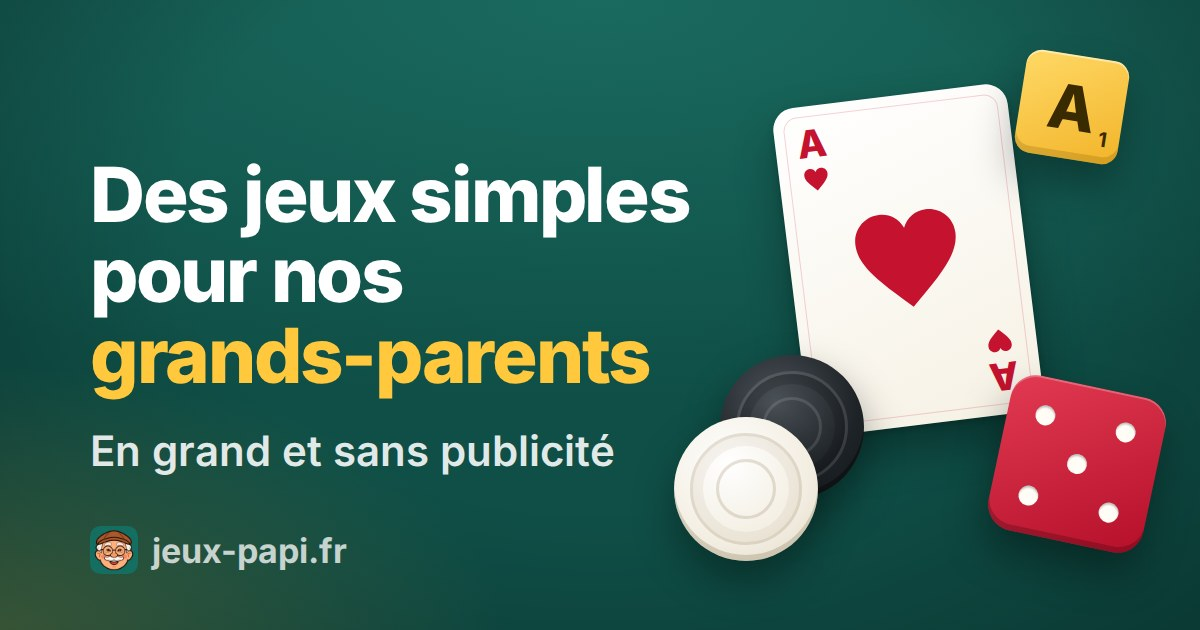
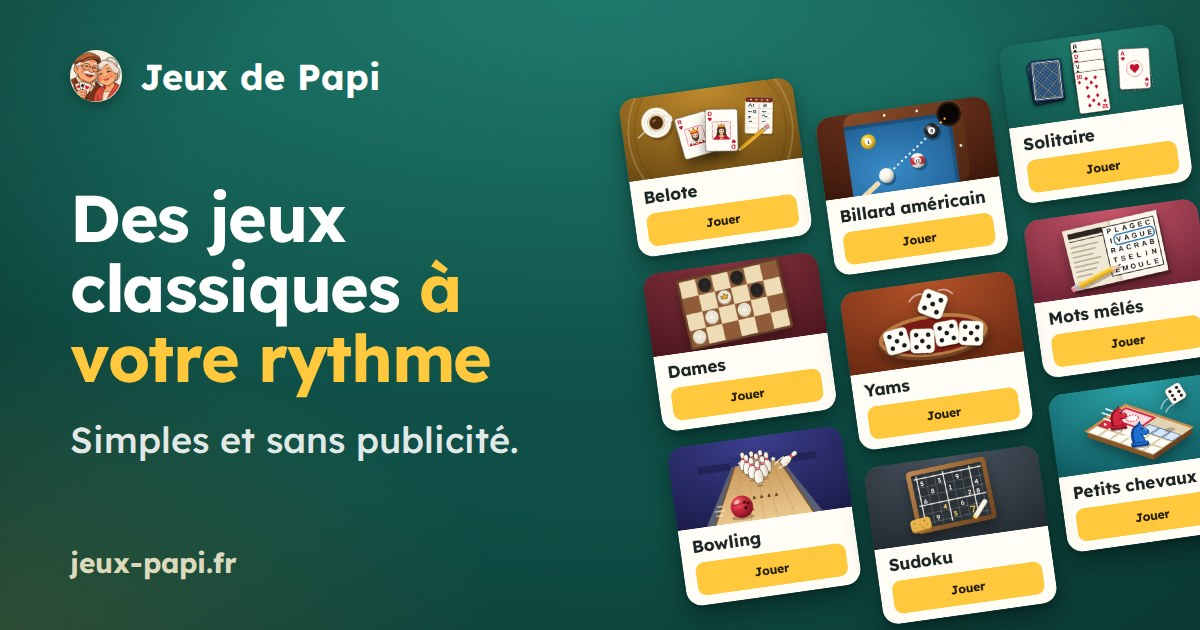
Give the library and every game page their own link preview image (#68)
* Give every game page its own link preview image, drawn by scripts/og-games.mjs

* Draw each game's preview with the picture of its library tile

* Show each game's drawing on the felt of its preview, without the tile behind it

* Redraw the library preview with four library drawings and its own words, and name each game's family on its preview

* Put the address at the bottom right of the library preview, with a smaller logo

* Show a tilted wall of library tiles on the library preview

* Put the address under the text of the library preview, and keep only the library's own line

diff --git a/public/golf/index.html b/public/golf/index.html
@@ -12,7 +12,8 @@
 <meta property="og:url" content="https://jeux-papi.fr/golf/">
 <meta property="og:title" content="Golf miniature · Jeux de Papi">
 <meta property="og:description" content="Jouez neuf trous de golf miniature en trois dimensions, nouveaux à chaque partie. Visez et tapez la balle à votre rythme.">
-<meta property="og:image" content="https://jeux-papi.fr/og.jpg">
+<meta property="og:image" content="https://jeux-papi.fr/og/jeux/golf.jpg">
+<meta property="og:image:alt" content="Golf miniature, sur Jeux de Papi.">
 <meta property="og:image:width" content="1200">
 <meta property="og:image:height" content="630">
 <meta name="twitter:card" content="summary_large_image">

diff --git a/public/huit-americain/index.html b/public/huit-americain/index.html
@@ -12,7 +12,8 @@
 <meta property="og:url" content="https://jeux-papi.fr/huit-americain/">
 <meta property="og:title" content="Huit américain · Jeux de Papi">
 <meta property="og:description" content="Le huit américain en grand, contre trois joueurs de l'ordinateur. Sans publicité ni compte.">
-<meta property="og:image" content="https://jeux-papi.fr/og.jpg">
+<meta property="og:image" content="https://jeux-papi.fr/og/jeux/huit-americain.jpg">
+<meta property="og:image:alt" content="Huit américain, sur Jeux de Papi.">
 <meta property="og:image:width" content="1200">
 <meta property="og:image:height" content="630">
 <meta name="twitter:card" content="summary_large_image">

diff --git a/public/dame-de-pique/index.html b/public/dame-de-pique/index.html
@@ -12,7 +12,8 @@
 <meta property="og:url" content="https://jeux-papi.fr/dame-de-pique/">
 <meta property="og:title" content="Dame de pique · Jeux de Papi">
 <meta property="og:description" content="La dame de pique en grand, contre trois joueurs de l'ordinateur. Sans publicité ni compte.">
-<meta property="og:image" content="https://jeux-papi.fr/og.jpg">
+<meta property="og:image" content="https://jeux-papi.fr/og/jeux/dame-de-pique.jpg">
+<meta property="og:image:alt" content="Dame de pique, sur Jeux de Papi.">
 <meta property="og:image:width" content="1200">
 <meta property="og:image:height" content="630">
 <meta name="twitter:card" content="summary_large_image">

diff --git a/public/mots-meles/index.html b/public/mots-meles/index.html
@@ -12,7 +12,8 @@
 <meta property="og:url" content="https://jeux-papi.fr/mots-meles/">
 <meta property="og:title" content="Mots mêlés · Jeux de Papi">
 <meta property="og:description" content="Les mots mêlés en grand, avec de grandes lettres et trois niveaux. Sans publicité ni compte.">
-<meta property="og:image" content="https://jeux-papi.fr/og.jpg">
+<meta property="og:image" content="https://jeux-papi.fr/og/jeux/mots-meles.jpg">
+<meta property="og:image:alt" content="Mots mêlés, sur Jeux de Papi.">
 <meta property="og:image:width" content="1200">
 <meta property="og:image:height" content="630">
 <meta name="twitter:card" content="summary_large_image">

diff --git a/public/bataille-navale/index.html b/public/bataille-navale/index.html
@@ -12,7 +12,8 @@
 <meta property="og:url" content="https://jeux-papi.fr/bataille-navale/">
 <meta property="og:title" content="Bataille navale · Jeux de Papi">
 <meta property="og:description" content="La bataille navale en grand, contre l'ordinateur. Sans publicité ni compte.">
-<meta property="og:image" content="https://jeux-papi.fr/og.jpg">
+<meta property="og:image" content="https://jeux-papi.fr/og/jeux/bataille-navale.jpg">
+<meta property="og:image:alt" content="Bataille navale, sur Jeux de Papi.">
 <meta property="og:image:width" content="1200">
 <meta property="og:image:height" content="630">
 <meta name="twitter:card" content="summary_large_image">

diff --git a/public/petits-chevaux/index.html b/public/petits-chevaux/index.html
@@ -12,7 +12,8 @@
 <meta property="og:url" content="https://jeux-papi.fr/petits-chevaux/">
 <meta property="og:title" content="Petits chevaux · Jeux de Papi">
 <meta property="og:description" content="Les petits chevaux en grand, contre l'ordinateur. Sans publicité ni compte.">
-<meta property="og:image" content="https://jeux-papi.fr/og.jpg">
+<meta property="og:image" content="https://jeux-papi.fr/og/jeux/petits-chevaux.jpg">
+<meta property="og:image:alt" content="Petits chevaux, sur Jeux de Papi.">
 <meta property="og:image:width" content="1200">
 <meta property="og:image:height" content="630">
 <meta name="twitter:card" content="summary_large_image">

diff --git a/public/solitaire/index.html b/public/solitaire/index.html
@@ -12,7 +12,8 @@
 <meta property="og:url" content="https://jeux-papi.fr/solitaire/">
 <meta property="og:title" content="Solitaire · Jeux de Papi">
 <meta property="og:description" content="Le solitaire classique en grand. Toutes les parties ont une solution. Sans publicité ni compte.">
-<meta property="og:image" content="https://jeux-papi.fr/og.jpg">
+<meta property="og:image" content="https://jeux-papi.fr/og/jeux/solitaire.jpg">
+<meta property="og:image:alt" content="Solitaire, sur Jeux de Papi.">
 <meta property="og:image:width" content="1200">
 <meta property="og:image:height" content="630">
 <meta name="twitter:card" content="summary_large_image">

diff --git a/public/belote/index.html b/public/belote/index.html
@@ -12,7 +12,8 @@
 <meta property="og:url" content="https://jeux-papi.fr/belote/">
 <meta property="og:title" content="Belote · Jeux de Papi">
 <meta property="og:description" content="La belote en grand, avec un partenaire contre deux joueurs de l'ordinateur. Sans publicité ni compte.">
-<meta property="og:image" content="https://jeux-papi.fr/og.jpg">
+<meta property="og:image" content="https://jeux-papi.fr/og/jeux/belote.jpg">
+<meta property="og:image:alt" content="Belote, sur Jeux de Papi.">
 <meta property="og:image:width" content="1200">
 <meta property="og:image:height" content="630">
 <meta name="twitter:card" content="summary_large_image">

diff --git a/public/billard/index.html b/public/billard/index.html
@@ -12,7 +12,8 @@
 <meta property="og:url" content="https://jeux-papi.fr/billard/">
 <meta property="og:title" content="Billard américain · Jeux de Papi">
 <meta property="og:description" content="Le billard du café, contre René : rentrez vos sept billes, puis la noire.">
-<meta property="og:image" content="https://jeux-papi.fr/og.jpg">
+<meta property="og:image" content="https://jeux-papi.fr/og/jeux/billard.jpg">
+<meta property="og:image:alt" content="Billard américain, sur Jeux de Papi.">
 <meta property="og:image:width" content="1200">
 <meta property="og:image:height" content="630">
 <meta name="twitter:card" content="summary_large_image">

diff --git a/public/demineur/index.html b/public/demineur/index.html
@@ -12,7 +12,8 @@
 <meta property="og:url" content="https://jeux-papi.fr/demineur/">
 <meta property="og:title" content="Démineur · Jeux de Papi">
 <meta property="og:description" content="Le démineur en grand. Chaque partie se gagne sans deviner. Sans publicité ni compte.">
-<meta property="og:image" content="https://jeux-papi.fr/og.jpg">
+<meta property="og:image" content="https://jeux-papi.fr/og/jeux/demineur.jpg">
+<meta property="og:image:alt" content="Démineur, sur Jeux de Papi.">
 <meta property="og:image:width" content="1200">
 <meta property="og:image:height" content="630">
 <meta name="twitter:card" content="summary_large_image">

diff --git a/public/paires/index.html b/public/paires/index.html
@@ -12,7 +12,8 @@
 <meta property="og:url" content="https://jeux-papi.fr/paires/">
 <meta property="og:title" content="Jeu des paires · Jeux de Papi">
 <meta property="og:description" content="Le jeu des paires en grand, pour exercer sa mémoire. Sans publicité ni compte.">
-<meta property="og:image" content="https://jeux-papi.fr/og.jpg">
+<meta property="og:image" content="https://jeux-papi.fr/og/jeux/paires.jpg">
+<meta property="og:image:alt" content="Jeu des paires, sur Jeux de Papi.">
 <meta property="og:image:width" content="1200">
 <meta property="og:image:height" content="630">
 <meta name="twitter:card" content="summary_large_image">

diff --git a/public/morpion/index.html b/public/morpion/index.html
@@ -12,7 +12,8 @@
 <meta property="og:url" content="https://jeux-papi.fr/morpion/">
 <meta property="og:title" content="Morpion · Jeux de Papi">
 <meta property="og:description" content="Le morpion en grand, avec de grandes cases, contre l'ordinateur. Sans publicité ni compte.">
-<meta property="og:image" content="https://jeux-papi.fr/og.jpg">
+<meta property="og:image" content="https://jeux-papi.fr/og/jeux/morpion.jpg">
+<meta property="og:image:alt" content="Morpion, sur Jeux de Papi.">
 <meta property="og:image:width" content="1200">
 <meta property="og:image:height" content="630">
 <meta name="twitter:card" content="summary_large_image">
